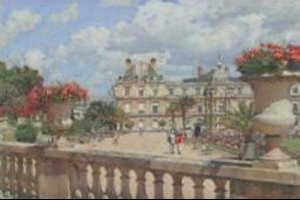
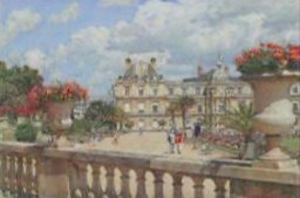
Improved prediction, added another painting and adapt for different sizes of images

diff --git a/Test3.m b/Test3.m
@@ -1,80 +1,74 @@
 clear all 
 close all 
 
+painter = "monet"; % can chose "monet" or "vg"  (Van Gogh)
+
 photo1 = imread("src/photo1.jpg");
-painting1 = imread("src/monet1.jpg");
+painting1 = imread(strcat("src/", painter, "1.jpg"));
 photo2 = imread("src/photo2.jpg");
-painting2 = imread("src/monet2.jpg");
+painting2 = imread(strcat("src/", painter, "2.jpg"));
 photo3 = imread("src/photo3.jpg");
-painting3 = imread("src/monet3.jpg");
+painting3 = imread(strcat("src/", painter, "3.jpg"));
 photo4 = imread("src/photo4.jpg");
-painting4 = imread("src/monet4.jpg");
+painting4 = imread(strcat("src/", painter, "4.jpg"));
+
+to_predict = painting2; % This is the painting we want to create a photo from
+expected = photo2; % Expected result
+
+painting5 = imread("src/MONET.jpg");
 
 FOURIER_SIZE = [2048 2048];
 
-% figure(), imshow(I), title('I');
-% figure(), imshow(Image1), title('Image1'); 
-% figure(), imshow(painting1), title('painting1'); 
-% figure(), imshow(Image2), title('Image2'); 
-% figure(), imshow(painting2),title('painting2'); 
 
 % Get the FFT of the images (not centered)
-f1 = fft3(photo1, FOURIER_SIZE);
-f1_Monet = fft3(painting1, FOURIER_SIZE);
-f2_Monet = fft3(painting2, FOURIER_SIZE);
-% figure(), imshow(fftshift(f1)), title('Fourier1'); 
-% figure(), imshow(fftshift(f1_Monet)), title('Monet 1 '); 
-% figure(), imshow(fftshift(f2_Monet)),title('Monet 2'); 
+fphoto1 = fft3(photo1, FOURIER_SIZE);
+fphoto2 = fft3(photo2, FOURIER_SIZE);
+fphoto3 = fft3(photo3, FOURIER_SIZE);
+fphoto4 = fft3(photo4, FOURIER_SIZE);
+fpainting1 = fft3(painting1, FOURIER_SIZE);
+fpainting2 = fft3(painting2, FOURIER_SIZE);
+fpainting3 = fft3(painting3, FOURIER_SIZE);
+fpainting4 = fft3(painting4, FOURIER_SIZE);
+fpredict = fft3(to_predict, FOURIER_SIZE);
+fpainting5 = fft3(painting5, FOURIER_SIZE);
 
 
 % Obtain the filters
-filter1 = getKernel(f1, f1_Monet, FOURIER_SIZE);
-filter2 = getKernel(f2, f2_Monet, FOURIER_SIZE);
-filter3 = getKernel(f3, f3_Monet, FOURIER_SIZE);
-filteravg = (filter1 + filter2 + filter3)./3
+filter1 = getKernel(fphoto1, fpainting1, FOURIER_SIZE); 
+filter3 = getKernel(fphoto3, fpainting3, FOURIER_SIZE);
+filter4 = getKernel(fphoto4, fpainting4, FOURIER_SIZE);
+% We want to take the average of those 4 filters to get a filter more
+% representative of Monet's painting style
+filteravg = (filter1+ filter3 + filter4)./3; 
 
 
 % Predict Fourier representation of image 4
-outf1 = predictFourier(filter1, f4_Monet); 
-outf2 = predictFourier(filter2, f4_Monet); 
-outf3 = predictFourier(filter3, f4_Monet); 
-outavg = predictFourier(filteravg, f4_Monet); 
+fout = predictFourier(filteravg, fpredict); 
+fout5 = predictFourier(filteravg, fpainting5); 
 
 % Get the spatial domain representation 
-out1 = getSpatialRep(outf1, size(painting4));
-out2 = getSpatialRep(outf2, size(painting4));
-out3 = getSpatialRep(outf3, size(painting4));
-outavg = getSpatialRep(outavg, size(painting4));
+out = getSpatialRep(fout, size(to_predict));
+out5 = getSpatialRep(fout5, size(painting5));
 
-% display prediction
-figure()
-imshow(out1/255)
-title('out1')
-figure()
-imshow(out2/255)
-title('out2')
-figure()
-imshow(out3/255)
-title('out3')
-figure()
-imshow(outavg/255)
-title('out3')
+% display predictions
+out = getMedianFiltered(out, [6, 6]); 
+figure(1)
+imshow(out/255)
+title('What Monet saw')
+imwrite(out/255, "out/monet_photo2.jpg")
 
 
+out5 = getMedianFiltered(out5, [6, 6]); 
+figure(2)
+imshow(out5/255)
+title('What Monet saw')
+imwrite(out5/255, "out/monet_photo5.jpg")
 
 
-% save it
-% imwrite(out/255, "out/out.jpg")
-
-% display median-filtered version
-% med = getMedianFiltered(out, [5, 5]); 
-% figure()
-% imshow(med/255)
-% title('With median filtering')
 
 %display what we wanted to see
-figure()
-imshow(photo2)
+figure(3)
+imshow(expected)
 title('expected')
 
 function F = fft3(I, FOURIER_SIZE)
@@ -110,12 +104,12 @@ function If = getSpatialRep(F, s)
 % F: RGB image in the Fourier domain
 % Returns I, the corresponding image in the spatial domain
 
-    height = s(1); width = s(2)
+    height = s(1); width = s(2);
     I = zeros(size(F));
     I(:,:,1) = ifft2(F(:,:,1));
     I(:,:,2) = ifft2(F(:,:,2));
     I(:,:,3) = ifft2(F(:,:,3));
-    If = I(1:height, 1:width, : )
+    If = I(1:height, 1:width, : );
 end
 
 function MFI = getMedianFiltered(I, neighborhood)
